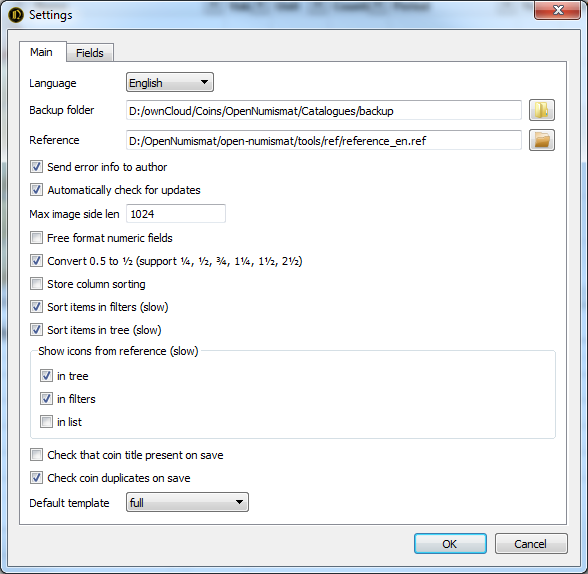
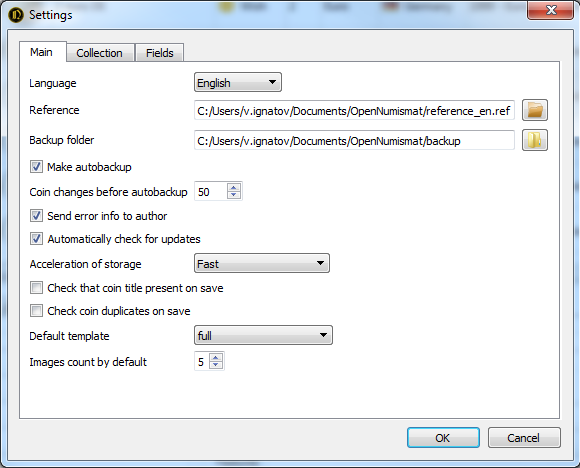
up

Changed region(s): [[0.0, 0.0, 1.0, 1.0]]

diff --git a/open-numismat/manual.html b/open-numismat/manual.html
@@ -365,6 +365,19 @@ After that, the dialog for assigning fields with the first 10 coins from the sou
 <li>Extra fast (dangerous) - recommended when you perform a large number of changes, provided that you perform a backup.
 </ul>
 
+<h3>8.3 Images count by default</h3>
+Default images count in Image panel.
+
+<h3>8.4 Collection</h3>
+Collection specific settings (stored for each collection file):
+<p><img src="/images/manual/settings2.png"></p>
+
+<p>Preview image height:
+<p><img src="/images/manual/main_height.png"></p>
+
+<p>Images at bottom:
+<p><img src="/images/manual/main_bottom.png"></p>
+
 </div>
       </section>
     </div>
